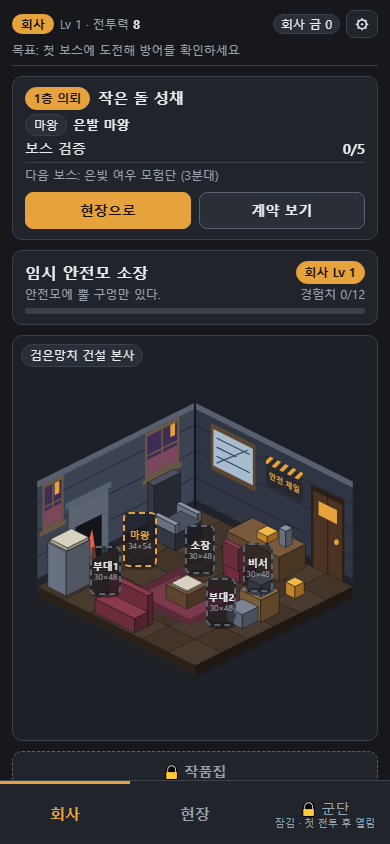
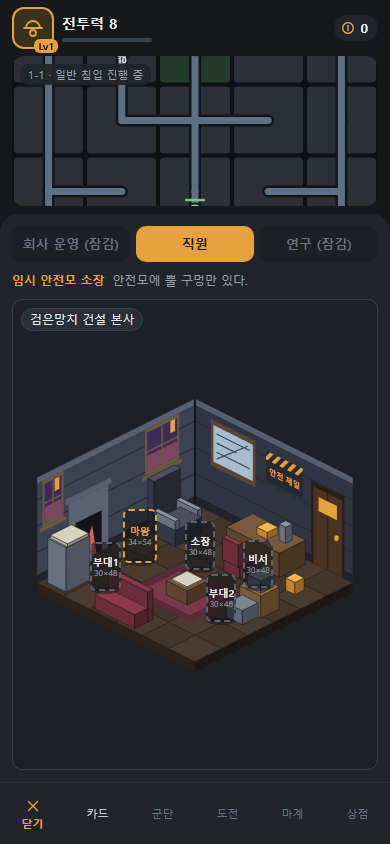
DS UI 합치기 전 맞춤: 보스 결과 [일반 침입 재개]를 시안대로 작은 글 링크(카드 기록 있을 때 탭에 가림), 사진은 패널 전투 띠 이동이 끝난 뒤 찍음, D1 기준 사진 갱신(눈으로 확인)

diff --git a/prototype/d1_demo/shell.css b/prototype/d1_demo/shell.css
@@ -1266,6 +1266,8 @@ body.paneled .arena-tag { display: block; position: absolute; left: 8px; top: 8p
 .pnl.enter { animation: pnl-up var(--dur-sheet) var(--ease-out); }
 @keyframes pnl-up { from { transform: translateY(40px); opacity: 0; } to { transform: none; opacity: 1; } }
 body.reduce .pnl.enter, body.reduce .rsheet { animation: none; }
+/* 보스 결과의 [일반 침입 재개] = 시안대로 작은 글 링크 (카드 기록이 있어도 탭 막대에 안 가림) */
+.rsheet .fbtn.slim[data-fresume] { flex: none; align-self: center; border: 0; background: none; padding: 4px 12px; font-size: 13px; font-weight: normal; color: var(--dim); }
 .subtabs { flex: none; display: grid; grid-template-columns: repeat(3, minmax(0, 1fr)); gap: 6px; }
 .subtabs button { height: 36px; min-width: 0; padding: 0; border-radius: 10px; border: 0; background: var(--panel-2); color: var(--text); font-size: 13px; font-weight: 600; }
 .subtabs button.on { background: var(--accent); color: var(--accent-ink); font-weight: 800; }

diff --git a/tools/d1_drive.js b/tools/d1_drive.js
@@ -171,6 +171,7 @@ async function d1drive_shots(outDir) {
           if (st !== 'ok') throw new Error(c.name + ': ' + st);
         }
         await d1drive_go(b, c.hash);
+        await b.sleep(800);   // 패널 위 전투 띠가 분대 쪽으로 미끄러지는 0.6초(transition)가 끝난 뒤 찍음 (사진이 매번 같게)
         const problems = [];
         if (c.expect && !(await b.ev('!!document.querySelector(' + JSON.stringify(c.expect) + ')'))) problems.push('화면에 ' + c.expect + ' 가 없음');
         const scr = await b.ev('__d1t.screen()');
